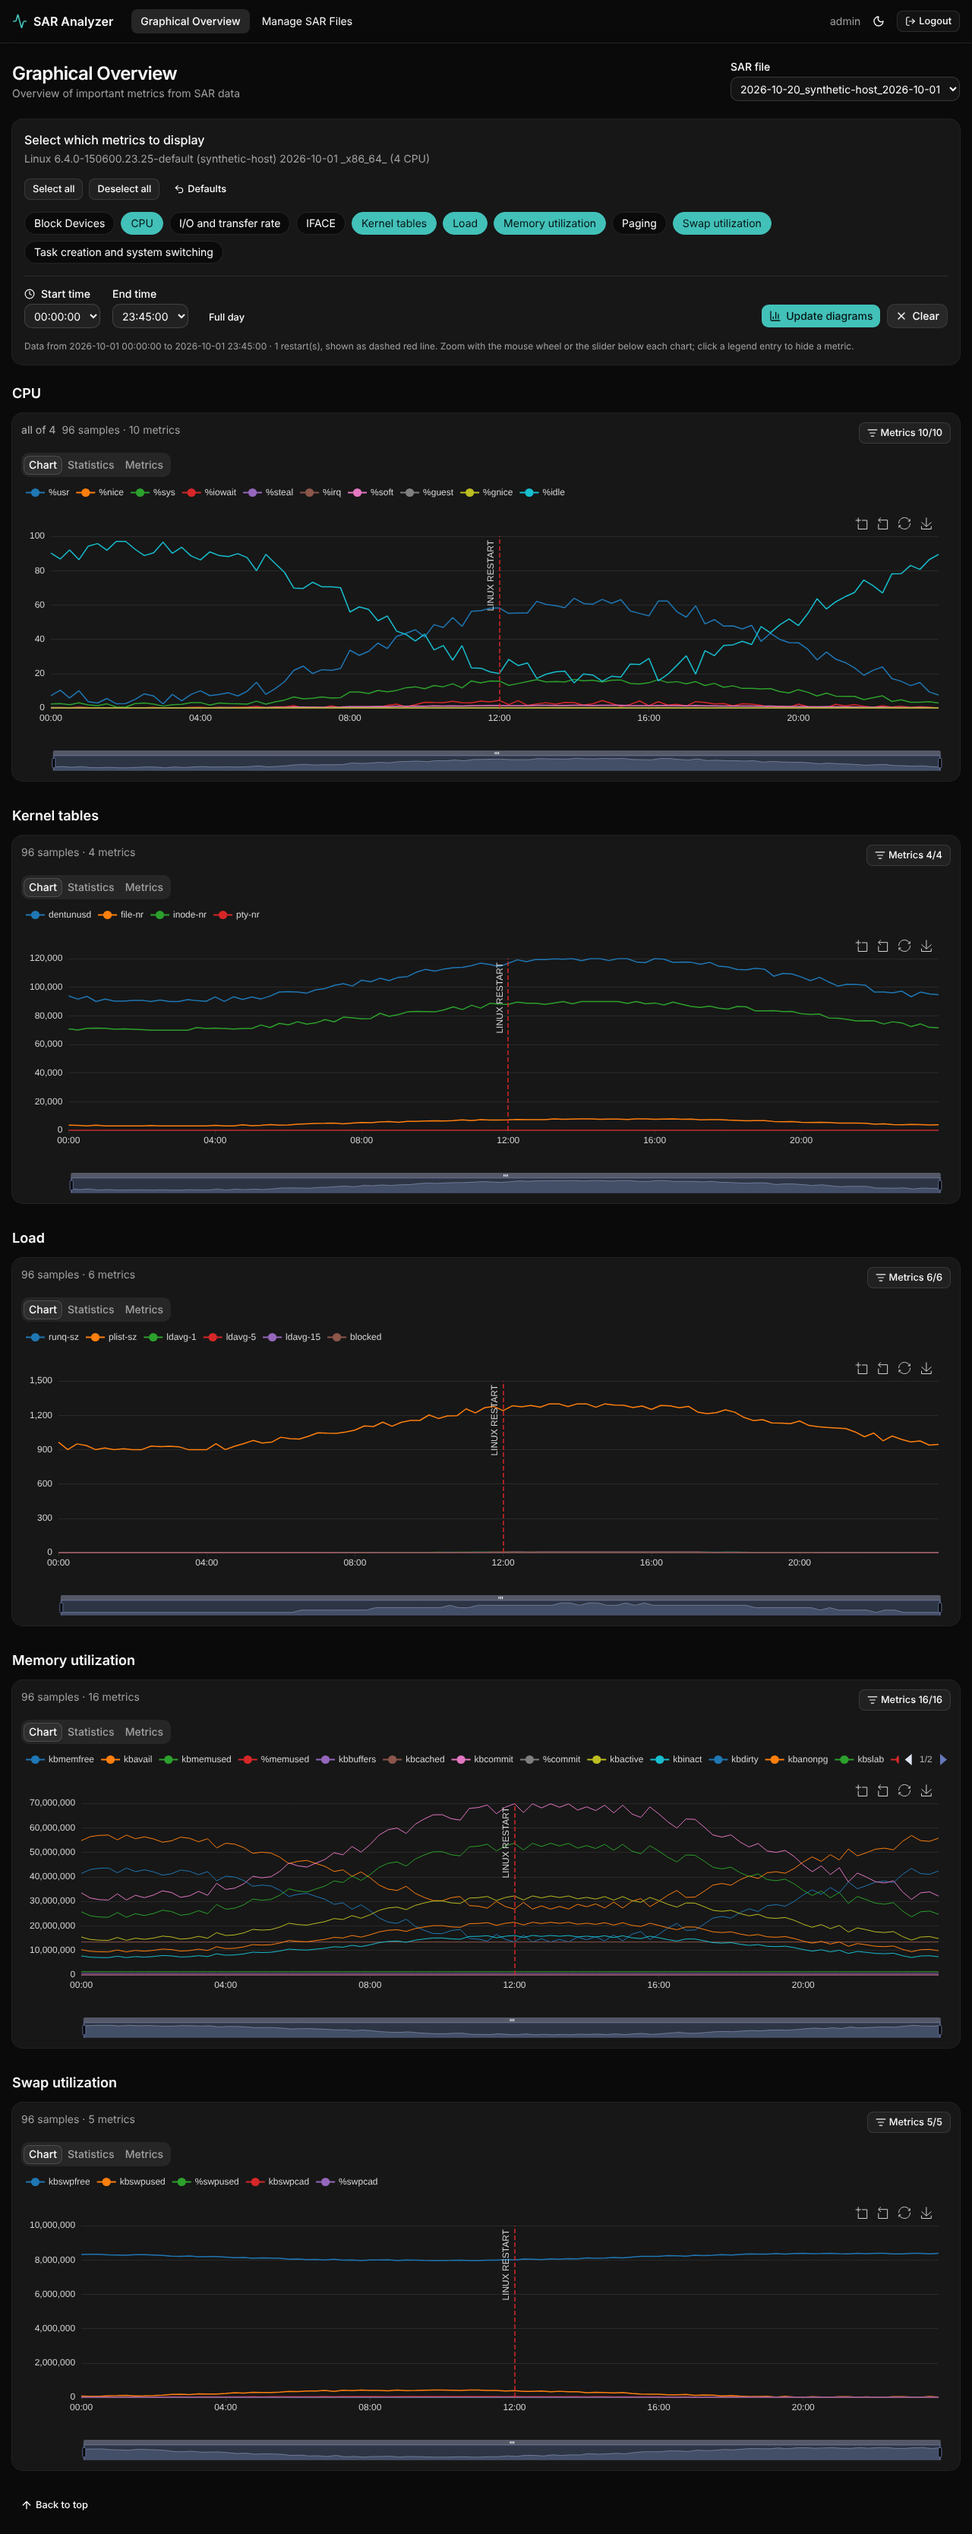
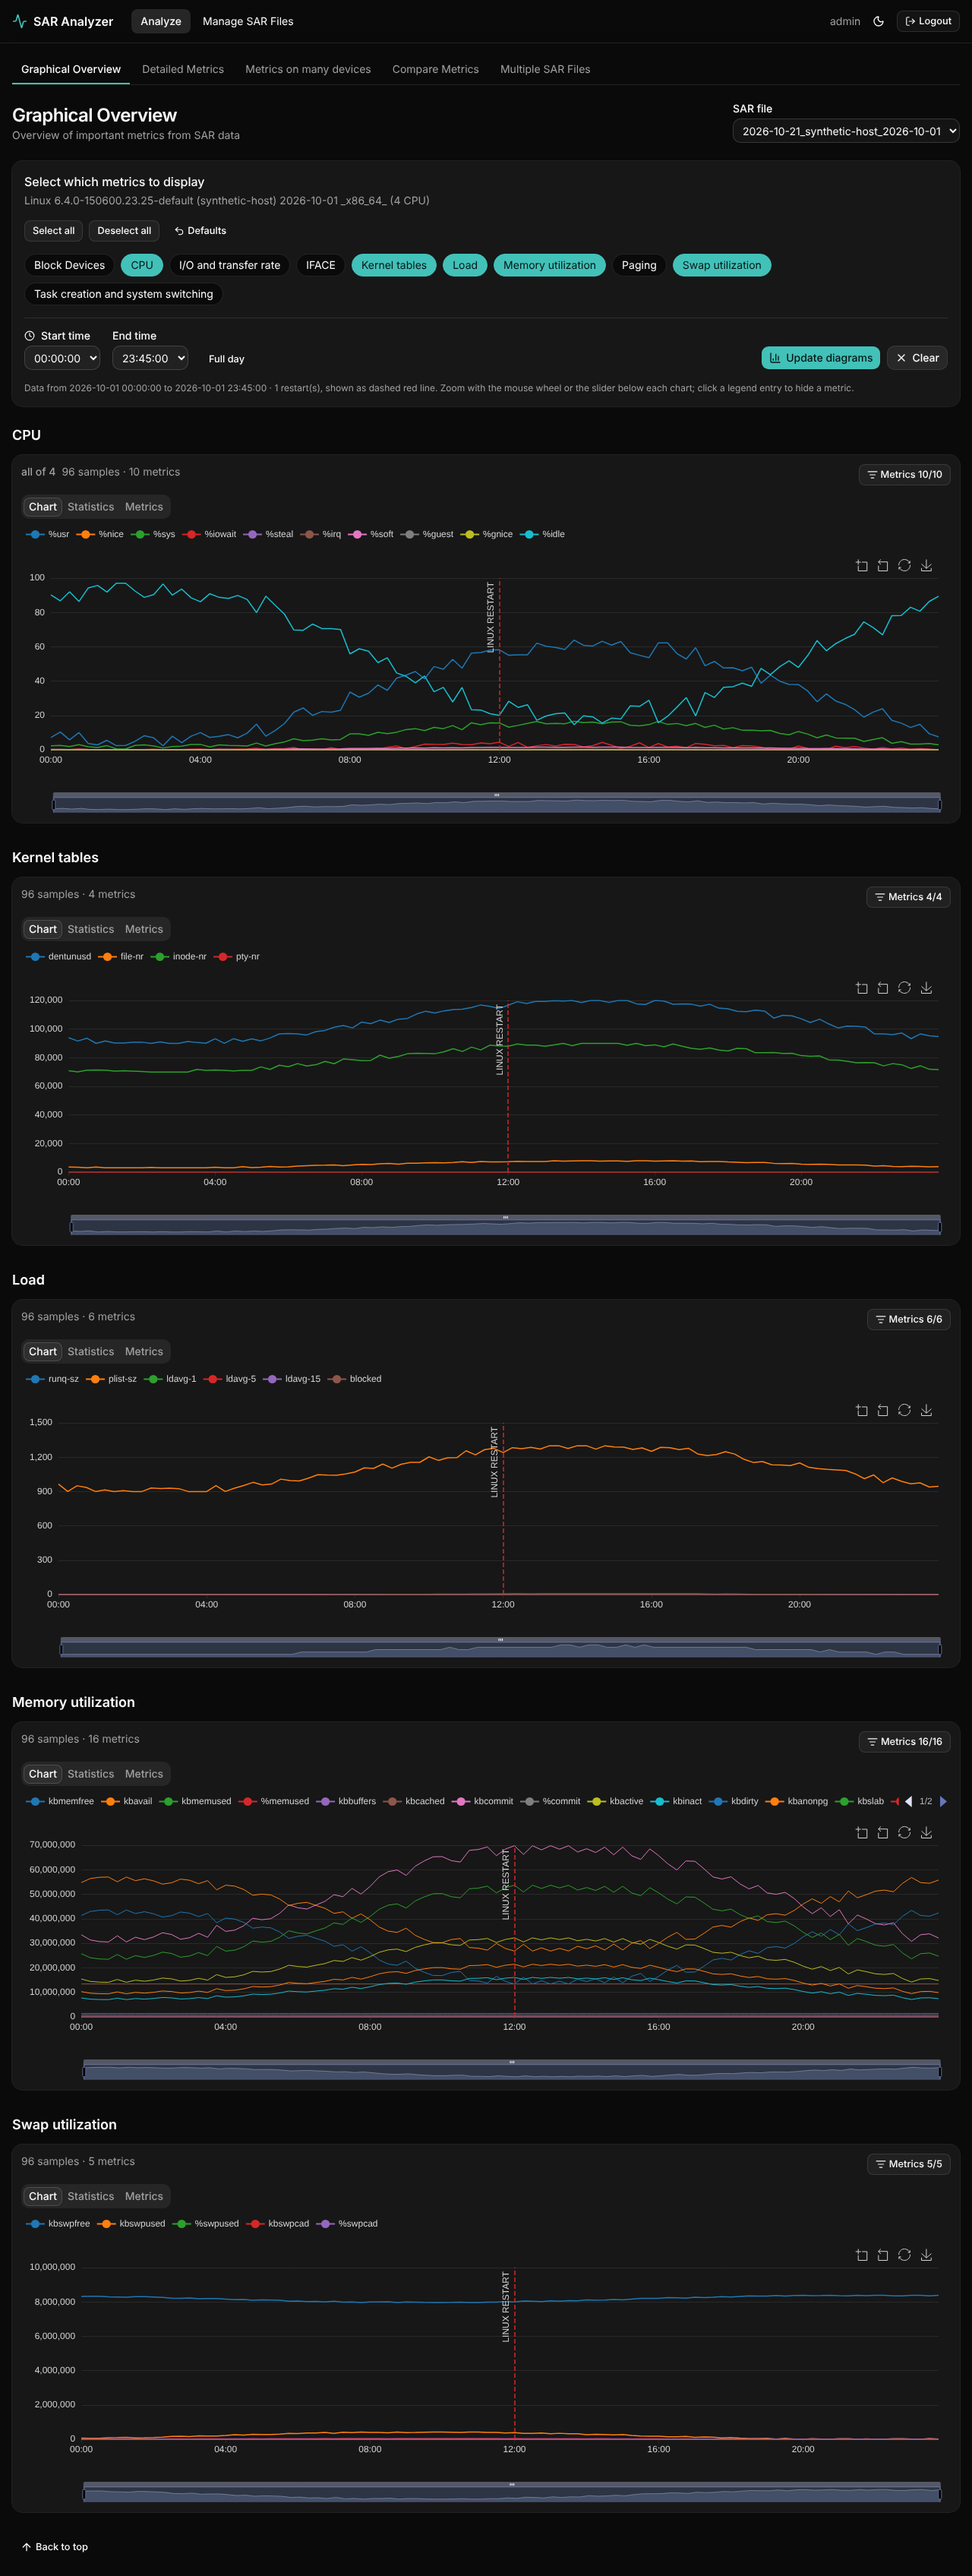
docs: analysis views, threshold endpoint, screenshots
Claude-Session: https://claude.ai/code/session_01BdnqVQGre8zWwBra29mJmT

diff --git a/README.md b/README.md
@@ -4,7 +4,8 @@ A web frontend for the sar analyzer of
 [jschaef/sarfile_analyzer_ng](https://github.com/jschaef/sarfile_analyzer_ng),
 in two parts:
 
-- **Next.js app** (repository root): login, file management, Graphical Overview.
+- **Next.js app** (repository root): login, file management and the five
+  analysis views of the Streamlit app.
 - **sar-web-api** ([`backend/`](backend/README.md)): a small FastAPI service the
   app talks to. It imports the parser and header logic of a sarfile_analyzer_ng
   checkout read-only and adds what that project's own API lacks (column-oriented
@@ -25,6 +26,22 @@ Features:
   sample times, Apache ECharts line charts with zoom, restart markers, a
   statistics tab, a metric description ("man pages") tab and the duplicate
   timestamp warning.
+- **Detailed Metrics**: one heading, one device, one metric – or all metrics of
+  the heading ("Summary") – with chart, data table (CSV download, restarts
+  highlighted), statistics and metric descriptions.
+- **Metrics on many devices**: find the devices where a metric lies in a range
+  (e.g. every CPU with `%iowait` between 15.5 and 50) in a time window, list
+  matches per device (count, peak, first/last) and the matching samples, and
+  chart the chosen devices in one diagram.
+- **Compare Metrics**: up to six heading/device/metric combinations in one chart.
+- **Multiple SAR Files**: the same heading/device/metric from several files,
+  either laid over one 24-hour axis or one after another on the real time axis
+  ("consecutive"), with a time range, combined and per-file statistics, and a
+  summary per file.
+
+The analysis views share a sub navigation that keeps the chosen file
+(`?file=`). The login form also works without JavaScript (it posts to
+`/api/auth/login`, which answers with a redirect; cross-site posts are rejected).
 
 Stack: Next.js 16.4.2 (App Router, Turbopack, Cache Components), React 19.3,
 TypeScript strict, Tailwind CSS 4, shadcn/ui (Base UI), Apache ECharts 6.1,
@@ -107,11 +124,19 @@ npm run test:e2e        # needs a build; starts/reuses sar-web-api (:8200) and N
 (cd backend && python -m pytest)   # sar-web-api, in the venv from above
 ```
 
-E2E (`e2e/overview.spec.ts`): login → upload the small fixture → Overview with
-the five default aliases → charts rendered → order/device rules → an alias with
-`/` in its name → metric menu → time filter → statistics → metric descriptions →
-delete → logout (+ 401 afterwards), plus theme switching, wrong password and
-httpOnly cookie checks.
+E2E:
+
+- `e2e/overview.spec.ts`: login → upload the small fixture → Overview with
+  the five default aliases → charts rendered → order/device rules → an alias with
+  `/` in its name → metric menu → time filter → statistics → metric descriptions →
+  delete → logout (+ 401 afterwards), plus theme switching, wrong password and
+  httpOnly cookie checks.
+- `e2e/analyze.spec.ts`: the sub navigation keeps the file; Detailed Metrics
+  (device/metric, summary, data tab, heading without devices); Metrics on many
+  devices (threshold → matches → chart); Compare Metrics (several headings,
+  added slot); Multiple SAR Files (the fixture and a copy shifted by one day:
+  overlay, statistics, consecutive, summary); the login form post (303 +
+  httpOnly cookie, wrong password, cross-site 403).
 
 Options for the e2e run:
 
@@ -122,9 +147,12 @@ Options for the e2e run:
   not at `../sarfile_analyzer_ng`) set. `SAR_E2E_SKIP_API=1` never starts it,
   `SAR_E2E_API_CMD` changes the command.
 - `SAR_E2E_REAL_FILE=/path/to/sar-file SAR_E2E_REAL_HOST=<host>` – additionally
-  runs `e2e/real-file.spec.ts` against a real sar file outside the repo.
+  runs `e2e/real-file.spec.ts` against a real sar file outside the repo
+  (Overview, Detailed Metrics, Metrics on many devices). `<host>` is the
+  hostname from the file's first line.
 - `SAR_SCREENSHOTS_DIR=docs/screenshots [SAR_SCREENSHOTS_WIDTH=1024]` – writes the
-  login/overview screenshots in light and dark.
+  screenshots of login, Overview, Detailed Metrics, Metrics on many devices and
+  Compare Metrics in light and dark.
 
 ## Test data
 
@@ -150,12 +178,20 @@ python3 scripts/generate_sar.py --cpus 352 --samples 2833 --interval 30 --minima
 ```
 app/login                 login page + form
 app/(app)/files           file management
-app/(app)/overview        Graphical Overview (overview, alias-section, chart-card, statistics, metric descriptions)
+app/(app)/(analyze)       analysis views with a shared sub navigation (layout.tsx):
+  overview                  Graphical Overview (overview, alias-section, chart-card)
+  details                   Detailed Metrics
+  devices                   Metrics on many devices
+  compare                   Compare Metrics
+  multi                     Multiple SAR Files
+components/analyze        shared parts of the views: file picker, sub navigation,
+                          result tabs, data table, statistics, metric descriptions
 app/api/auth/*, api/upload  route handlers (cookie + revocation, streaming upload)
 backend/                  sar-web-api (FastAPI, pytest)
 components/charts         ECharts wrapper (tree-shaken echarts/core)
 components/ui             shadcn/ui components
-lib/                      API client, sar data helpers, ECharts option builder
+lib/                      API client, hooks, sar data helpers, describe() statistics,
+                          ECharts option builder
 proxy.ts                  auth header injection + page guard
 e2e/                      Playwright tests + small fixture
 perf/                     benchmark (export_payloads.py, bench.mjs, api_timing.py)

diff --git a/PHASE2-API-GAPS.md b/PHASE2-API-GAPS.md
@@ -28,6 +28,20 @@ section), 4-vCPU dev container, no Redis – details in [PERF.md](PERF.md).
 | 14 | no progress for the server-side parse after upload | unchanged: the upload returns after parsing | open |
 | 15 | SSO built for the Streamlit redirect | not ported; Next.js has username/password login only | open |
 
+## Phase 3: analysis views
+
+The four remaining analysis views needed one more endpoint:
+
+| Need | `/api/v2` | Status |
+|---|---|---|
+| "Metrics on many devices": which devices have a metric within a range (`/api/v1` has no such query; the view would have to load every device) | `GET /files/{name}/threshold?header=&metric=&min=&max=[&start=&end=&limit=]` – matches per device (count, peak, first, last) in natural device order and the matching samples (`limit`, default 500); without `min`/`max` only the value range and time range of the metric, for the form defaults | closed |
+| headings that have devices (the device view lists only those) | `has_devices` per header in `GET /files/{name}` | closed |
+
+Detailed Metrics, Compare Metrics and Multiple SAR Files use the existing
+`header`, `series` and `statistics` endpoints. Multiple SAR Files computes the
+combined statistics of all files in the browser (`lib/stats.ts`, same numbers
+as pandas `describe()`).
+
 ## Still open / new limits
 
 - **Statistics CSV export (12), parse progress (14), SSO (15).**
